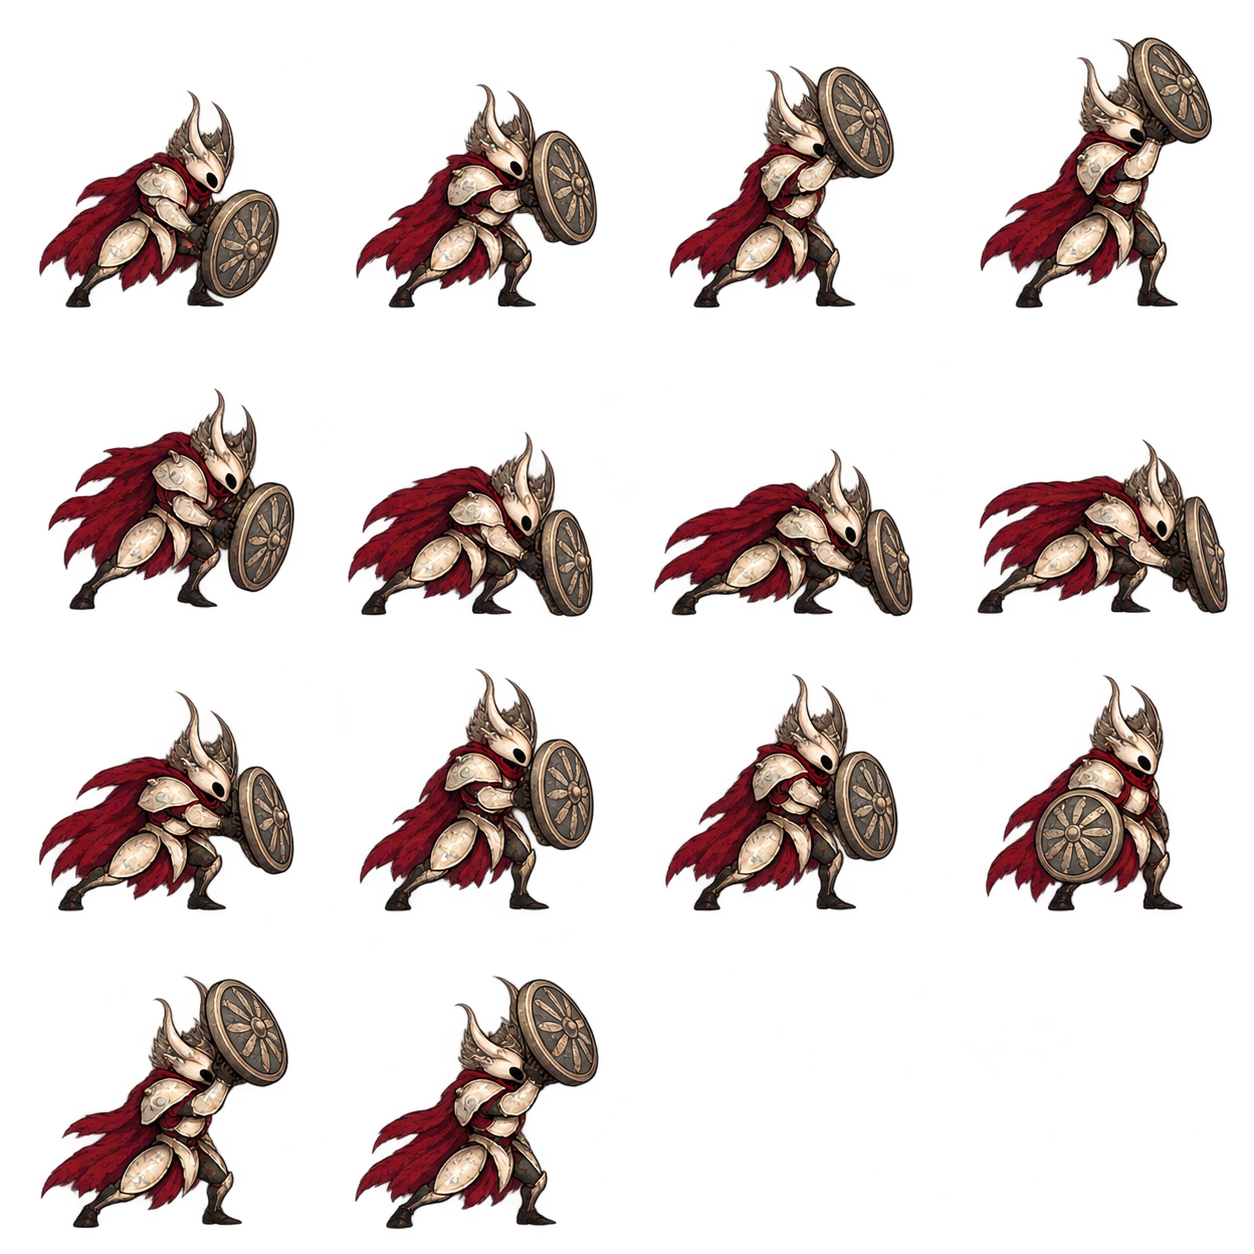
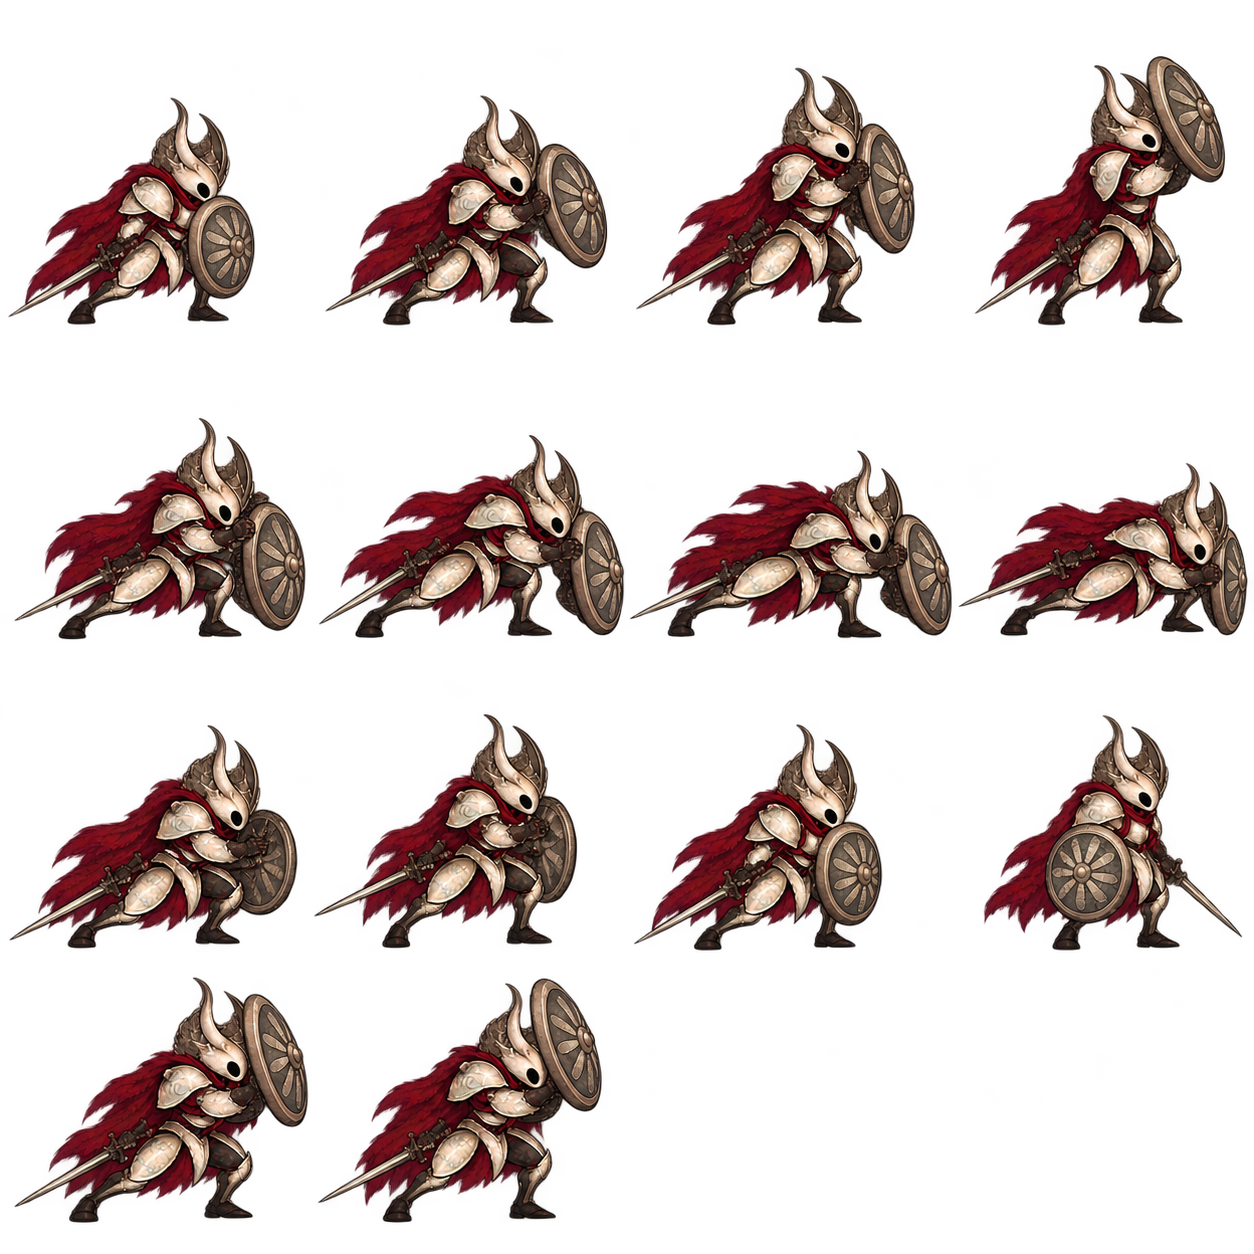
art: redraw echo wheel wave with sword visible in every cel

diff --git a/art_requests/creature_attacks_v1/incoming/README.md b/art_requests/creature_attacks_v1/incoming/README.md
@@ -100,3 +100,5 @@
 重画记录（2026-10-18）：`wax_high.png` — 重画前四格前摇，枪尖明显低于双手并压到前脚脚底线附近；出招逐步上挑，收招四格恢复竖枪，保留 12 格。
 
 重画记录（2026-10-18）：`crossbow_low.png` — 单膝跪地、拉弦、低位瞄准、明显后坐及起身回收分开绘制；保留 14 格与原骨弩比例。
+
+重画记录（2026-10-18）：`echo_wheel_wave.png` — 14 格均保留原长剑与一面轮盾，分开抬盾、下砸推进及回收动作，补回原版缺失的剑。
